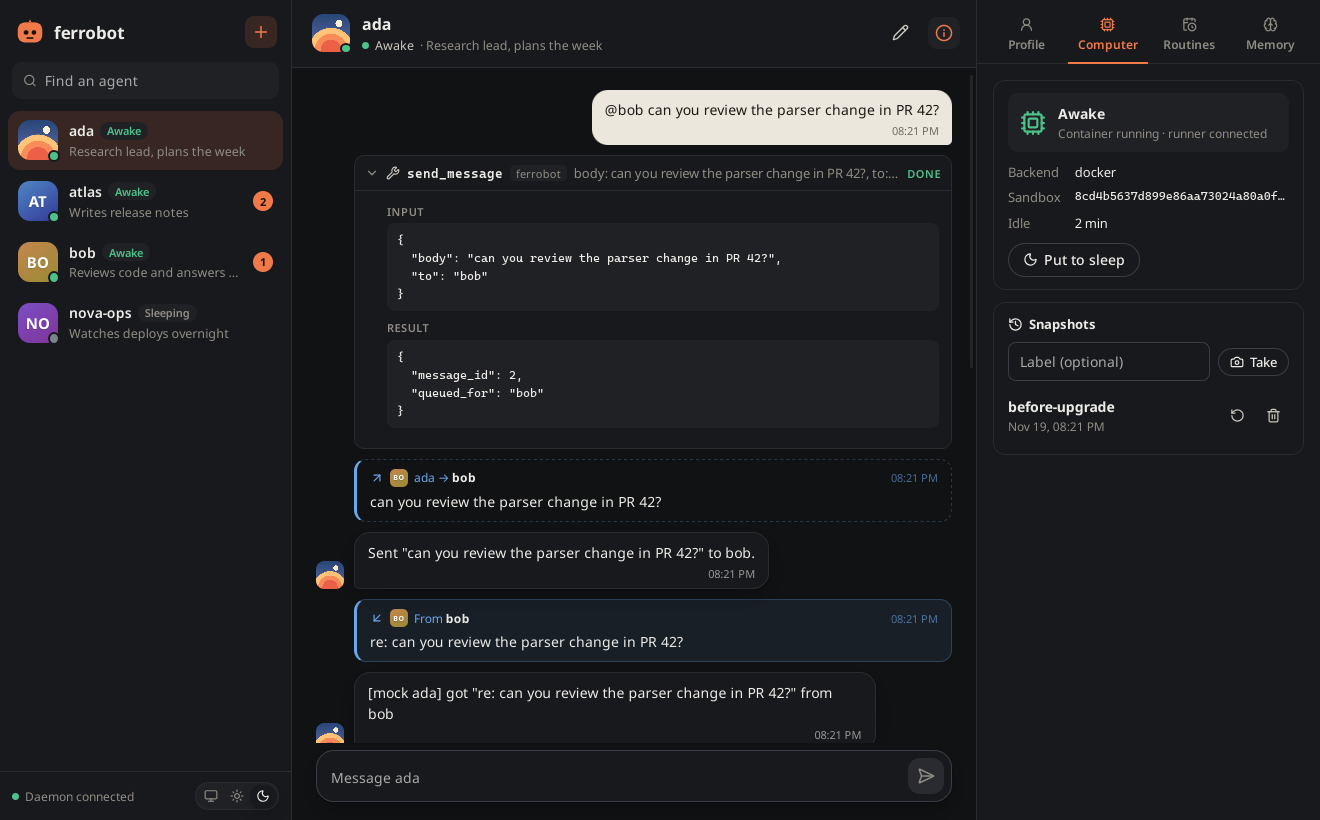
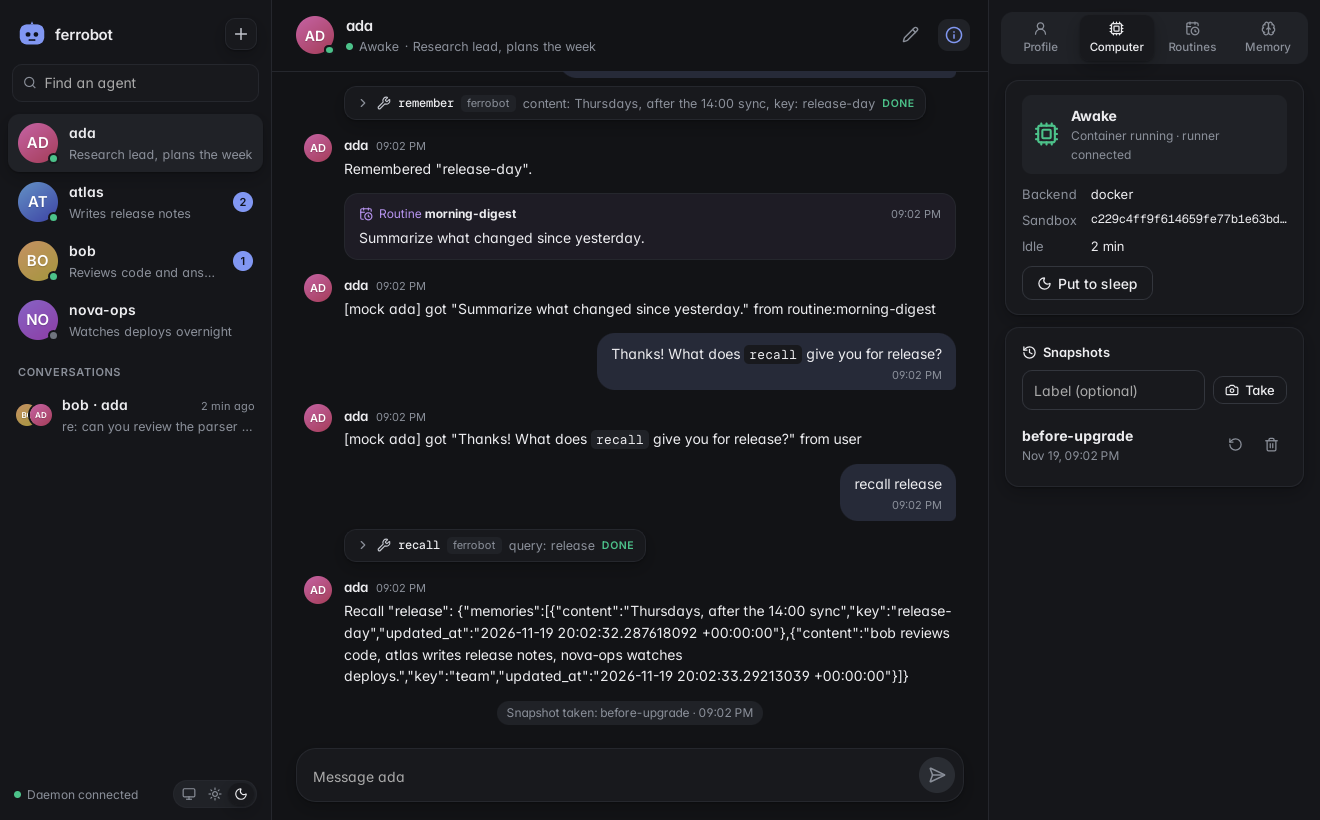
docs: refresh desktop screenshots for the new look
Adds a read-only conversation shot; drops the old sidebar and duplicate
computer-panel shots.

diff --git a/README.md b/README.md
@@ -16,9 +16,10 @@ and reaches the daemon through MCP tools.
 
 | Light | Dark |
 | --- | --- |
-| ![Chat with a tool call, light theme](docs/screenshots/light-chat.png) | ![Chat, dark theme](docs/screenshots/dark-chat.png) |
+| ![Chat with a mention and a tool call, light theme](docs/screenshots/light-chat.png) | ![Chat with an expanded tool call, dark theme](docs/screenshots/dark-chat.png) |
+| ![Read-only conversation between two agents, with the Conversations section in the sidebar](docs/screenshots/light-conversation.png) | ![Info panel: computer and snapshots](docs/screenshots/dark-info-computer.png) |
 | ![Info panel: memory](docs/screenshots/light-info-memory.png) | ![Info panel: routines](docs/screenshots/dark-info-routines.png) |
-| ![Create-agent dialog](docs/screenshots/light-create-agent.png) | ![Info panel: computer and snapshots](docs/screenshots/dark-info-computer.png) |
+| ![Create-agent dialog](docs/screenshots/light-create-agent.png) | |
 
 More in [`docs/screenshots/`](docs/screenshots). The agents in the screenshots
 run on the mock driver (replies like `[mock ada] got "..."`); they were seeded
